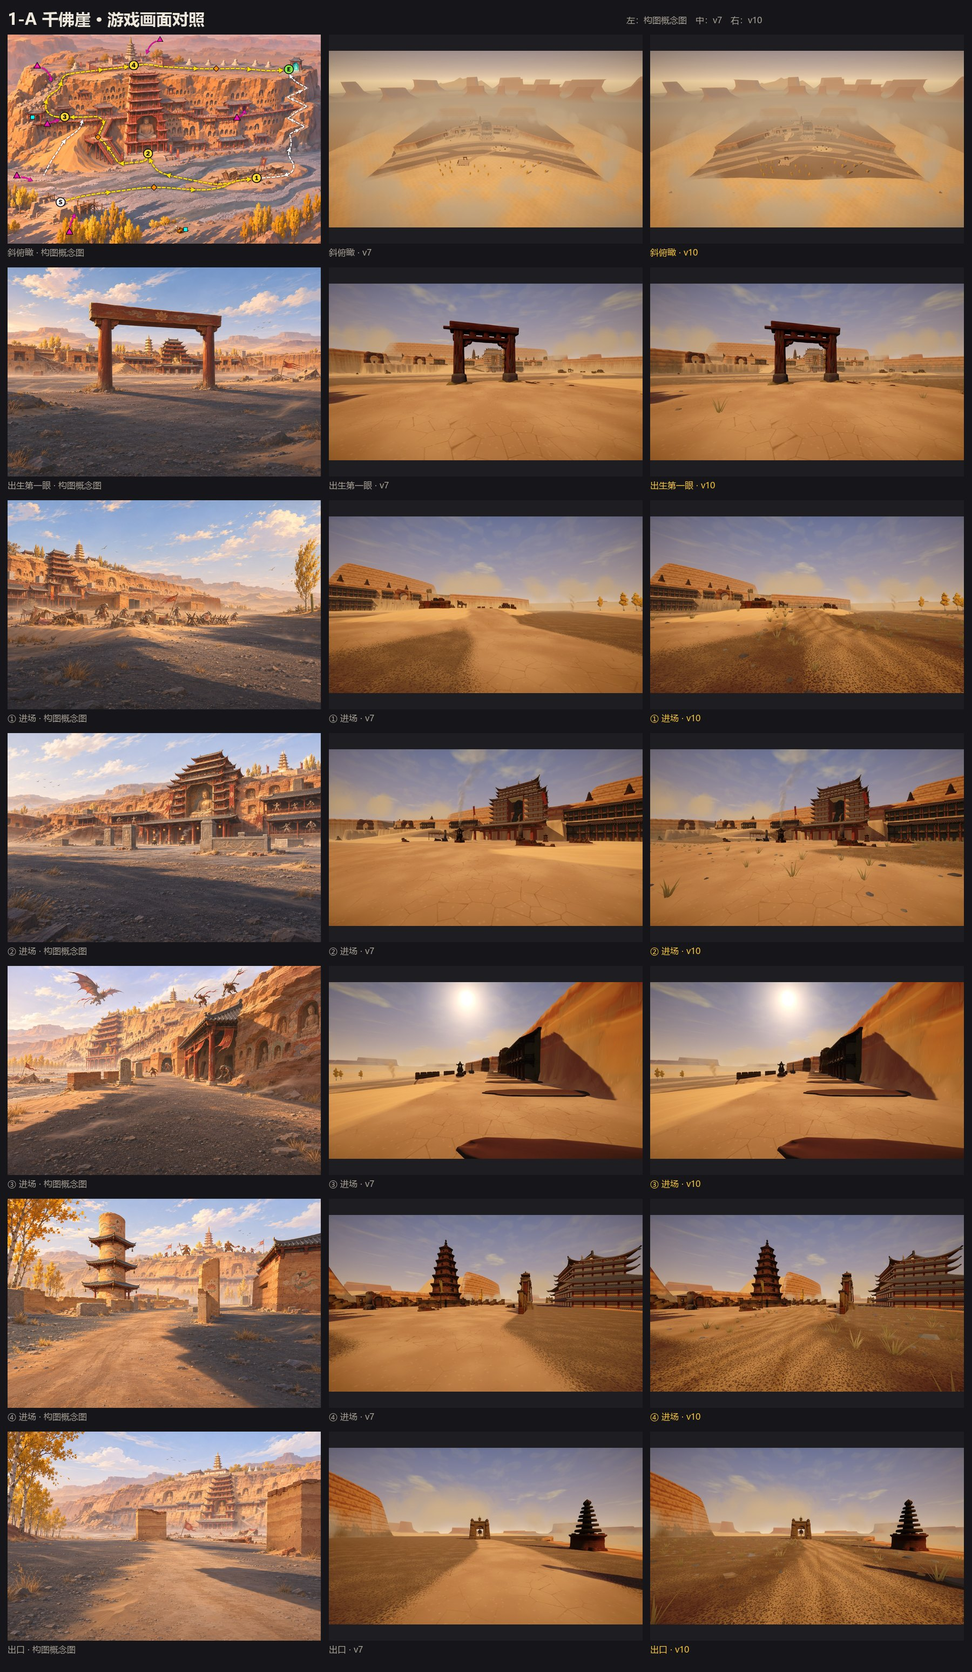
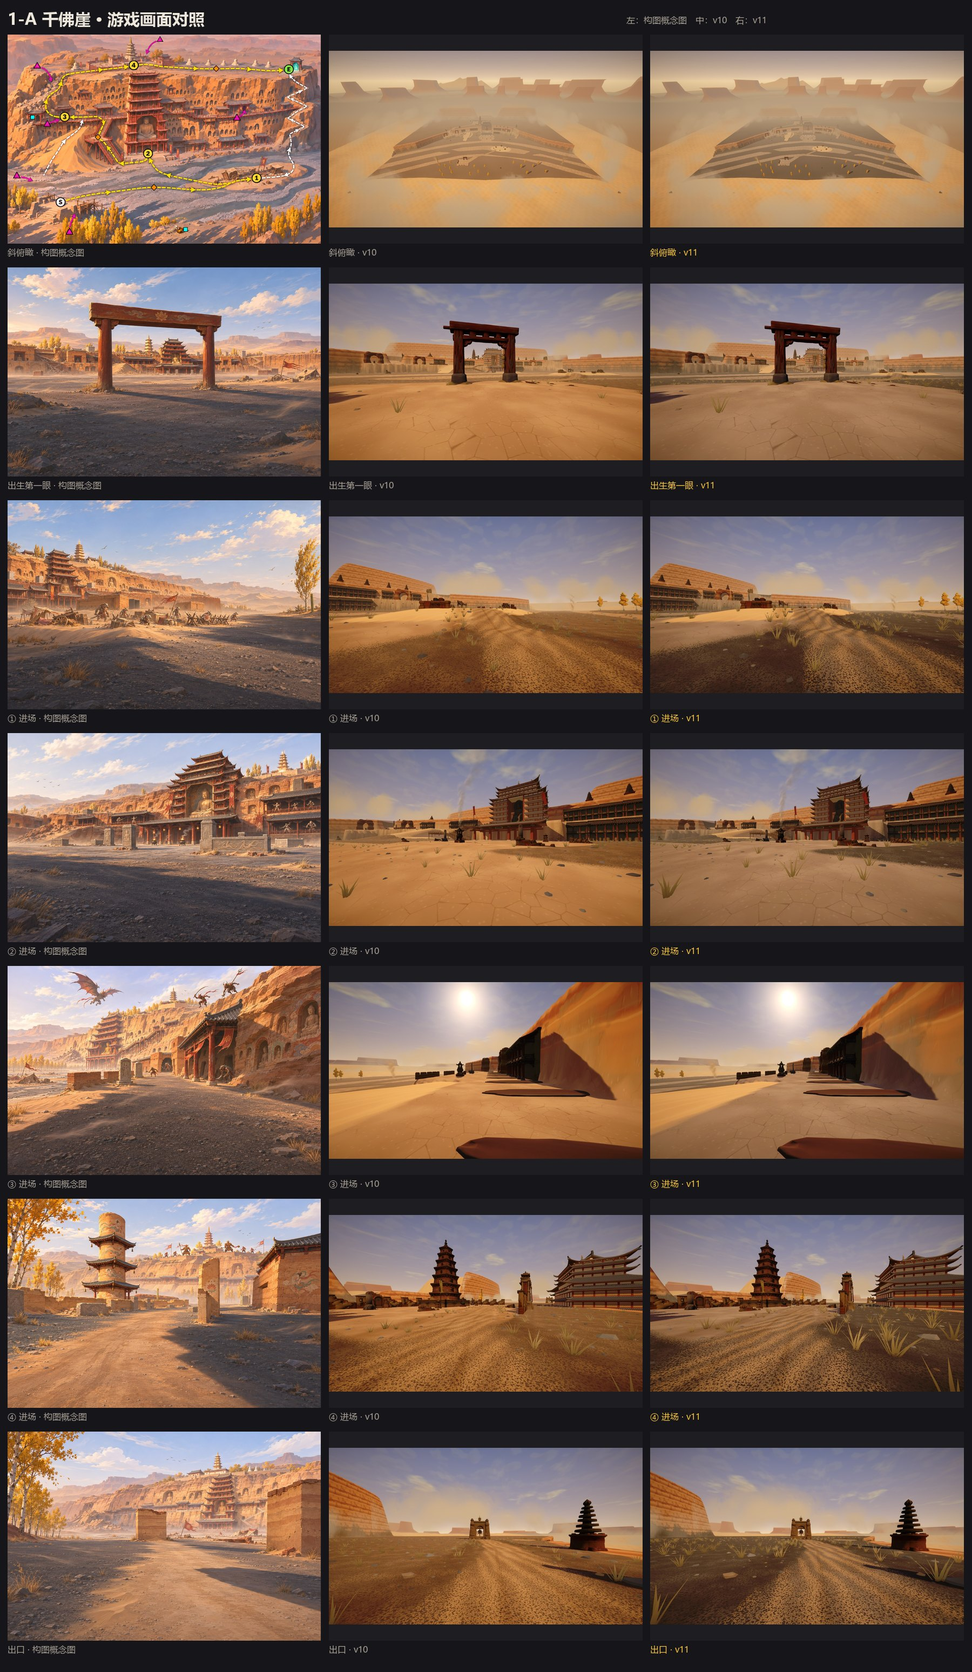
feat(desert): 第一章逐图对概念图还原（一）——地面去饱和成灰褐、1-2 太阳改到东北不再全图逆光、各图蓝天积云、骆驼刺、沙暴墙加浓
- 地形四层贴图载入时按层调饱和度 / 明度（砾石、土路去饱和压暗，沙保留暖黄），暗部色调改暖、铺地阴影不再发紫灰
- 1-1：日光收橙、营地沙洼底改砾石、路边骆驼刺（现成件实例化）、沙暴墙更高更褐、一团团积云
- 1-2：太阳从 112° 改到 55° / 42°（概念图里塔和岩壁是受光的），天顶改蓝、浮尘只压地平线，平地改回暖沙
- 1-4：白杨改金叶、蓝天积云、碗底改回沙土
- 草丛加高；散布支持灌丛件

diff --git a/src/world/desert/redo/maps.ts b/src/world/desert/redo/maps.ts
@@ -71,7 +71,8 @@ export const REDO_MAPS: Record<string, RedoMapConfig> = {
     // 破晓后一小时，迎着朝阳向东赶路：长影朝玩家倒过来，烽燧逆光成剪影，天在太阳那一侧最亮、发金，东边天际压着沙暴
     look: {
       light: {
-        sun: { color: [1, 0.8, 0.56], intensity: 1.6, shadowStrength: 0.9 },
+        // 日光收一点橙（概念图里天和太阳是金的，地面还是灰褐）
+        sun: { color: [1, 0.83, 0.62], intensity: 1.6, shadowStrength: 0.9 },
         // 高保真对照概念图「出生第一眼」（2026-11-27）：逆光的门框、营地在概念图里还看得出朱红和木色——背光面的环境光抬高；
         // 天顶是干净的蓝、地平线发金、低空一团团暖白的积云；空气比之前通透
         ambient: { sky: [0.5, 0.6, 0.8], equator: [0.72, 0.58, 0.44], ground: [0.42, 0.31, 0.22], intensity: 1.15 },
@@ -79,7 +80,8 @@ export const REDO_MAPS: Record<string, RedoMapConfig> = {
         sky: { top: [0.3, 0.57, 0.84], horizon: [0.98, 0.8, 0.58], bottom: [0.62, 0.48, 0.34], sun: [1, 0.86, 0.6], sharpness: 2.4, horizonGlow: 0.75, sunSize: 0.0012, sunHalo: 0.5, exposure: 1.18 },
       },
       atmosphere: { mistDensity: 0.0024, mistScaleHeight: 16, sunScatter: 0.55, airSkyBlend: 0.4, cloudShadow: 0.5 },
-      clouds: { low: 0.32, mid: 0.3, high: 0.45, sunGlow: 0 },
+      // 概念图里是一团团暖白的积云（不是细丝）
+      clouds: { low: 0.6, mid: 0.25, high: 0.4, height: 380, sunGlow: 0 },
       shafts: { strength: 0.32 },
       rimBack: 1.3,
       // 远景：近排低沙丘，二排台地（太阳底下钉一座逆光方山），三排更高更淡的台地；东边天际压一道沙暴纱幕
@@ -93,7 +95,7 @@ export const REDO_MAPS: Record<string, RedoMapConfig> = {
       },
       // 暗部抬一点、偏暖：逆光的门框 / 车 / 烽燧在概念图里是看得出颜色的暖褐，不是死黑的剪影
       grade: {
-        ColorAdjustments: { postExposure: -0.55, saturation: 10, contrast: 26 }, WhiteBalance: { temperature: 8, tint: -5 },
+        ColorAdjustments: { postExposure: -0.55, saturation: 8, contrast: 26 }, WhiteBalance: { temperature: 4, tint: -2 },
         ShadowsMidtonesHighlights: { active: true, shadows: [1.08, 1, 0.94, 0.14], midtones: [1, 1, 1, 0], highlights: [1, 1, 1, 0], shadowsStart: 0, shadowsEnd: 0.32, highlightsStart: 0.55, highlightsEnd: 1 },
       },
     },
@@ -106,10 +108,11 @@ export const REDO_MAPS: Record<string, RedoMapConfig> = {
         sun: { color: [1, 0.86, 0.66], intensity: 1.7, shadowStrength: 0.8 },
         ambient: { sky: [0.52, 0.58, 0.74], equator: [0.68, 0.56, 0.44], ground: [0.4, 0.3, 0.22], intensity: 0.82 },
         fog: { color: [0.88, 0.72, 0.54], start: 50, end: 320 },
-        sky: { top: [0.55, 0.62, 0.72], horizon: [0.95, 0.8, 0.62], bottom: [0.64, 0.5, 0.36], sun: [1, 0.9, 0.7], sharpness: 1.6, horizonGlow: 0.9, sunSize: 0.0012, sunHalo: 0.7, exposure: 1.2 },
+        // 照概念图：天顶是蓝的、低空一层暖白的云，浮尘只压在地平线上（原来整片灰白眩光）
+        sky: { top: [0.38, 0.56, 0.8], horizon: [0.95, 0.8, 0.62], bottom: [0.64, 0.5, 0.36], sun: [1, 0.9, 0.7], sharpness: 2, horizonGlow: 0.85, sunSize: 0.0012, sunHalo: 0.6, exposure: 1.18 },
       },
-      atmosphere: { mistDensity: 0.0045, mistScaleHeight: 24, sunScatter: 0.75, airDensity: 0.0008, airSkyBlend: 0.3 },
-      clouds: { low: 0.08, mid: 0.2, high: 0.4, sunGlow: 0 },
+      atmosphere: { mistDensity: 0.003, mistScaleHeight: 22, sunScatter: 0.6, airDensity: 0.0006, airSkyBlend: 0.3 },
+      clouds: { low: 0.5, mid: 0.25, high: 0.4, height: 420, sunGlow: 0 },
       shafts: { strength: 0.38 },
       rimBack: 1.2,
       // 远景：近排雅丹舰群，二排雅丹 + 台地，三排台地；太阳那一侧（右前方）压一层浮尘
@@ -149,7 +152,8 @@ export const REDO_MAPS: Record<string, RedoMapConfig> = {
     },
   },
   '1-4': {
-    margin: { rise: 10, dunes: 10 }, poplar: 'green',
+    // 白杨是偏黄的秋叶（概念图）
+    margin: { rise: 10, dunes: 10 }, poplar: 'gold',
     // 烈日下的露天沙洼：四面刀刃脊的沙山一面亮一面暗，月牙泉是全画面唯一的冷色，影子就是掩体
     look: {
       light: {
@@ -159,11 +163,13 @@ export const REDO_MAPS: Record<string, RedoMapConfig> = {
         sky: { top: [0.42, 0.6, 0.84], horizon: [0.97, 0.92, 0.84], bottom: [0.72, 0.6, 0.46], sun: [1, 0.98, 0.9], sharpness: 3.2, horizonGlow: 0.55, sunSize: 0.0012, sunHalo: 0.5, exposure: 1.18 },
       },
       atmosphere: { mistDensity: 0.002, mistScaleHeight: 26, sunScatter: 0.25, airSkyBlend: 0.5 },
-      clouds: { low: 0.1, mid: 0.15, high: 0.35, sunGlow: 0 },
+      // 概念图：蓝天上几团白积云
+      clouds: { low: 0.55, mid: 0.2, high: 0.35, height: 420, sunGlow: 0 },
       shafts: false,
       rimBack: 0.3,
       // 沙山一面亮一面暗：背阳坡压深、偏冷（太阳也从 46° 压到 34°，和旱魃一阶段推到的 30° 接得上）
-      terrainShadow: [0.56, 0.54, 0.82, 1],
+      // 背阳坡压深但不发紫（长廊铺地在阴影里一度显成紫灰）
+      terrainShadow: [0.62, 0.58, 0.64, 1],
       // 远景：沙山外面一层层更远、更高的沙海（鸣沙山的大沙山相对高 100–250 m），最远一排台地。
       // 构成复核（2026-11-26）：50–180 m 时全被 30–44 m 的近环挡住，出生台上只看得见一道碗沿；现在从出生台望出去，远沙山一层层高出近环 1–5°
       far: {

diff --git a/src/world/desert/groundScatter.ts b/src/world/desert/groundScatter.ts
@@ -31,6 +31,8 @@ export interface GroundScatterOptions {
   grass?: Partial<Record<string, number>>;
   /** 碎石密度（块 / m²） */
   pebbles?: Partial<Record<string, number>>;
+  /** 灌丛（骆驼刺、红柳）：现成的件按密度实例化（public/assets/props/<asset>.glb），路肩上加 shoulder 的密度 */
+  shrubs?: { asset: string; density: Partial<Record<string, number>>; shoulder?: number; scale?: [number, number] }[];
   /** 路肩：路边多宽算路肩（m），路肩上额外加的草 / 石密度 */
   shoulder?: { width: number; grass: number; pebbles: number };
   /** 这些圆里密度减半（据点场地中心：交战区不要满地碎东西） */
@@ -241,7 +243,7 @@ export class GroundScatter implements DesertPart {
           const c: Rgb = [root[0] + (tip[0] - root[0]) * t * 0.3, root[1] + (tip[1] - root[1]) * t * 0.3, root[2] + (tip[2] - root[2]) * t * 0.3];
           // 实例色 = 梢色的 0.85–1.1（几何里已经带了根暗梢亮）
           const k = 0.85 + r() * 0.25;
-          tileOf(px, pz).grass.push({ x: px, y: y - 0.03, z: pz, s: 0.75 + r() * 0.7, yaw: r() * Math.PI * 2, tilt: 0, c: [tip[0] * k * 0.92 + c[0] * 0.08, tip[1] * k * 0.92 + c[1] * 0.08, tip[2] * k * 0.92 + c[2] * 0.08] });
+          tileOf(px, pz).grass.push({ x: px, y: y - 0.03, z: pz, s: 0.95 + r() * 0.95, yaw: r() * Math.PI * 2, tilt: 0, c: [tip[0] * k * 0.92 + c[0] * 0.08, tip[1] * k * 0.92 + c[1] * 0.08, tip[2] * k * 0.92 + c[2] * 0.08] });
         } else {
           const big = r() < 0.04;
           const s = big ? 0.24 + r() * 0.16 : 0.06 + r() * r() * 0.18;
@@ -284,6 +286,68 @@ export class GroundScatter implements DesertPart {
     }
 
     if (o.ruts !== false && o.roads.length) this.buildRuts(surface, o);
+    // 灌丛：位置现在就定（同一个随机序列），件异步载入后挂上
+    for (const shrub of o.shrubs ?? []) {
+      const list: Inst[] = [];
+      const [s0, s1] = shrub.scale ?? [0.8, 1.3];
+      for (let z = z0; z < z1; z += 4) for (let x = x0; x < x1; x += 4) {
+        const px = x + r() * 4, pz = z + r() * 4;
+        const kind = surface.kind(px, pz);
+        if (!kind) continue;
+        const road = o.roads.length ? roadDistance(px, pz, o.roads) : Infinity;
+        // 路面上不长，路肩上加密
+        if (road < -0.5) continue;
+        const p = ((shrub.density[kind] ?? 0) + (road < shoulder.width + 1.5 ? shrub.shoulder ?? 0 : 0)) * 16 * thin * calmAt(px, pz);
+        if (p <= 0 || r() > p) continue;
+        const y = surface.height(px, pz);
+        if (!Number.isFinite(y) || !slopeOk(px, pz, y)) continue;
+        list.push({ x: px, y: y - 0.05, z: pz, s: s0 + r() * (s1 - s0), yaw: r() * Math.PI * 2, tilt: 0, c: [1, 1, 1] });
+      }
+      if (list.length) void this.loadShrub(shrub.asset, list);
+    }
+  }
+
+  /** 现成的灌丛件 → 实例化网格（材质补环境光、离镜头 80–110 m 缩没）；整件只一组实例，草 / 石那样分块不值得（几百棵） */
+  private async loadShrub(asset: string, list: { x: number; y: number; z: number; s: number; yaw: number }[]): Promise<void> {
+    const { GLTFLoader } = await import('three/examples/jsm/loaders/GLTFLoader.js');
+    let gltf;
+    try {
+      gltf = await new GLTFLoader().loadAsync(`${import.meta.env.BASE_URL}assets/props/${asset}.glb`);
+    } catch (e) {
+      console.warn(`[groundScatter] ${asset} 载入失败`, e);
+      return;
+    }
+    if (this.disposed) return;
+    gltf.scene.updateMatrixWorld(true);
+    const m4 = new THREE.Matrix4(), q = new THREE.Quaternion(), v = new THREE.Vector3(), sc = new THREE.Vector3(), up = new THREE.Vector3(0, 1, 0);
+    gltf.scene.traverse(obj => {
+      const mesh = obj as THREE.Mesh;
+      if (!mesh.isMesh || /_LOD[1-9]$/.test(mesh.name)) return;
+      const src = (Array.isArray(mesh.material) ? mesh.material[0] : mesh.material) as THREE.MeshStandardMaterial;
+      const mat = src.clone();
+      // 背光面补环境光：自发光 = 贴图色 × 0.42
+      mat.emissive = new THREE.Color(AMBIENT, AMBIENT, AMBIENT);
+      mat.emissiveMap = src.map;
+      mat.onBeforeCompile = shader => {
+        shader.vertexShader = shader.vertexShader.replace('#include <begin_vertex>', `#include <begin_vertex>
+{
+  vec3 wo = (modelMatrix * instanceMatrix * vec4(0.0, 0.0, 0.0, 1.0)).xyz;
+  transformed *= 1.0 - smoothstep(80.0, 110.0, distance(cameraPosition.xz, wo.xz));
+}`);
+      };
+      const inst = new THREE.InstancedMesh(mesh.geometry, mat, list.length);
+      const local = mesh.matrixWorld;
+      list.forEach((it, i) => {
+        m4.compose(v.set(it.x, it.y, it.z), q.setFromAxisAngle(up, it.yaw), sc.set(it.s, it.s, it.s)).multiply(local);
+        inst.setMatrixAt(i, m4);
+      });
+      inst.instanceMatrix.needsUpdate = true;
+      inst.computeBoundingSphere();
+      inst.name = `DesertGroundScatter.${asset}`;
+      inst.receiveShadow = true;
+      this.group.add(inst);
+      this.owned.push({ dispose: () => { inst.dispose(); mat.dispose(); } });
+    });
   }
 
   /** 每条路一条贴地带：1.5 m 一节，横向 13 个点（路面 + 两边路肩），乘法混合 */
@@ -345,7 +409,10 @@ export class GroundScatter implements DesertPart {
     this.uniforms.uTime.value = t;
   }
 
+  private disposed = false;
+
   dispose(): void {
+    this.disposed = true;
     this.group.removeFromParent();
     for (const d of this.owned) d.dispose();
   }

diff --git a/src/world/desert/redo/runtime.ts b/src/world/desert/redo/runtime.ts
@@ -25,6 +25,38 @@ import { patchDesertDocument } from '../document';
  */
 
 /** 地形四层贴图（起伏沙 / 黑戈壁砾石 / 龟裂土 / 赭红岩层，从旧沙漠地形搬到第一章自己的目录）和每张盖多少米 */
+/**
+ * 地形四层贴图的调色（饱和度倍率、明度倍率）：照构图概念图——能走的砾石地、土路是去了饱和的灰褐，
+ * 只有沙丘的沙保留暖黄（原贴图整片又橙又艳，2026-11-27 逐图还原时压的）
+ */
+const LAYER_TONE: [number, number][] = [[0.95, 0.97], [0.25, 0.78], [0.5, 0.9], [0.85, 1]];
+
+/** 贴图在 canvas 上按亮度往灰里收（sat）、整体压暗（val），出一张新贴图（原图是缓存里共用的，不改它） */
+function toneTexture(src: THREE.Texture, sat: number, val: number): THREE.Texture {
+  const img = src.image as (CanvasImageSource & { width: number; height: number }) | undefined;
+  if (!img?.width || typeof document === 'undefined' || (sat === 1 && val === 1)) return src;
+  const cv = document.createElement('canvas');
+  cv.width = img.width;
+  cv.height = img.height;
+  const g = cv.getContext('2d', { willReadFrequently: true });
+  if (!g) return src;
+  g.drawImage(img, 0, 0);
+  const d = g.getImageData(0, 0, cv.width, cv.height), p = d.data;
+  for (let i = 0; i < p.length; i += 4) {
+    const l = 0.299 * p[i] + 0.587 * p[i + 1] + 0.114 * p[i + 2];
+    for (let c = 0; c < 3; c++) p[i + c] = Math.max(0, Math.min(255, (l + (p[i + c] - l) * sat) * val));
+  }
+  g.putImageData(d, 0, 0);
+  const t = new THREE.CanvasTexture(cv);
+  t.colorSpace = src.colorSpace;
+  t.wrapS = src.wrapS;
+  t.wrapT = src.wrapT;
+  t.flipY = src.flipY;
+  t.anisotropy = src.anisotropy;
+  t.needsUpdate = true;
+  return t;
+}
+
 const LAYERS = [
   { url: 'assets/desert/terrain/sand.webp', tile: 9 },
   // 砾石：4 m 一铺时砾石斑有拳头到脸盆大，近景成一片豹纹斑（抢视线）；2.6 m 一铺缩成碎石粒
@@ -205,11 +237,13 @@ async function terrainPart(doc: UnitySceneDocument, c: CompiledMap, group: THREE
   control.minFilter = THREE.LinearFilter;
   control.colorSpace = THREE.NoColorSpace;
   control.needsUpdate = true;
-  const layers = await Promise.all(LAYERS.map(l => UnityLevelLibrary.loadTexture(l.url, true)));
+  const raw = await Promise.all(LAYERS.map(l => UnityLevelLibrary.loadTexture(l.url, true)));
+  const layers = raw.map((t, k) => toneTexture(t, ...LAYER_TONE[k]));
   for (const layer of layers) { layer.anisotropy = 8; layer.needsUpdate = true; }
   // 着色器按 vMapUv 采样分层图：材质要挂一张 map 才有这个 varying
   const material = new THREE.MeshStandardMaterial({ map: control });
-  const style = terrainStyle(doc.id), shadow = REDO_MAPS[doc.id]?.look?.terrainShadow;
+  // 暗部色调缺省比沙漠章原来的 [0.7, 0.64, 0.82] 暖一档：铺地在阴影里不发紫灰
+  const style = terrainStyle(doc.id), shadow = REDO_MAPS[doc.id]?.look?.terrainShadow ?? ([0.7, 0.65, 0.72, 1] as [number, number, number, number]);
   stylizeTerrain(material, { control, layers, tiles: LAYERS.map(l => l.tile) }, shadow ? { ...style, shadowTint: shadow } : style, doc.environment);
   setStylizedEnvironment(doc.environment);
   const source = new THREE.Group();
@@ -271,7 +305,7 @@ function mergeGrade(base: VolumeOverrides | undefined, over: VolumeOverrides | u
  */
 async function farGroundPart(doc: UnitySceneDocument, c: CompiledMap, group: THREE.Group): Promise<DesertPart> {
   const size = 7000;
-  const sand = (await UnityLevelLibrary.loadTexture(LAYERS[0].url, true)).clone();
+  const sand = toneTexture(await UnityLevelLibrary.loadTexture(LAYERS[0].url, true), ...LAYER_TONE[0]).clone();
   sand.wrapS = sand.wrapT = THREE.RepeatWrapping;
   sand.repeat.set(size / LAYERS[0].tile, size / LAYERS[0].tile);
   sand.needsUpdate = true;

diff --git a/src/world/desert/redo/fxMaps.ts b/src/world/desert/redo/fxMaps.ts
@@ -18,9 +18,11 @@ export const REDO_FX: Record<string, RedoFx> = {
   '1-1': {
     // 地面散布（照概念图近景）：砾石滩上一丛丛枯草和碎石、古道两道车辙 + 压暗的砾石路肩
     ground: {
-      grass: { gravel: 0.07, sand: 0.025, mud: 0.05, dune: 0.008, earth: 0.02 },
+      grass: { gravel: 0.06, sand: 0.02, mud: 0.05, dune: 0.006, earth: 0.02 },
       pebbles: { gravel: 0.32, sand: 0.05, mud: 0.14, earth: 0.08, road: 0.03 },
-      shoulder: { width: 3, grass: 0.22, pebbles: 0.55 },
+      shoulder: { width: 3, grass: 0.18, pebbles: 0.55 },
+      // 戈壁上一簇簇骆驼刺，路边多一些（概念图「出生第一眼」「① 进场」近景）
+      shrubs: [{ asset: 'SM_Tripo_DesertCamelthorn', density: { gravel: 0.004, sand: 0.002, mud: 0.003 }, shoulder: 0.012, scale: [0.7, 1.25] }],
     },
     // 北边沙丘带、东边两段沙丘：脊上的沙朝西南吹进盆地
     ridges: { reach: 1.4, opacity: 0.8 },
@@ -31,7 +33,7 @@ export const REDO_FX: Record<string, RedoFx> = {
       { origin: [327, 2.6, 180], height: 16, width: 0.9, opacity: 0.55, rise: 1.4, count: 24 },
     ],
     // 东边天际压着的沙暴墙（概念图「出生第一眼」右侧天边那一道褐黄尘墙；④ 营地的周期沙暴就从那边来）
-    storm: { azimuth: [30, 76], distance: 750, height: 90 },
+    storm: { azimuth: [28, 80], distance: 720, height: 115, lit: [0.8, 0.57, 0.38], shade: [0.44, 0.31, 0.22], haze: 0.22, opacity: 1 },
     // 狼烟是黑烟（烧狼粪 / 湿柴）：浅灰的烟逆着发亮的晨天整个化掉，压成深褐灰才立得住
     smokeOptions: { low: [0.3, 0.26, 0.23], high: [0.56, 0.52, 0.49] },
     // 尘卷风：南边戈壁、东北角，远远地游
@@ -53,8 +55,8 @@ export const REDO_FX: Record<string, RedoFx> = {
   '1-2': {
     // 地面散布（照概念图近景）：砾石滩上一丛丛枯草和碎石、古道两道车辙 + 压暗的砾石路肩
     ground: {
-      grass: { gravel: 0.06, sand: 0.02, mud: 0.04, road: 0.004 },
-      pebbles: { gravel: 0.3, sand: 0.04, mud: 0.12, earth: 0.06, road: 0.04 },
+      grass: { gravel: 0.06, sand: 0.025, mud: 0.04, road: 0.006 },
+      pebbles: { gravel: 0.3, sand: 0.1, mud: 0.12, earth: 0.06, road: 0.06 },
       shoulder: { width: 2.5, grass: 0.15, pebbles: 0.4 },
     },
     ridges: false,
@@ -72,8 +74,8 @@ export const REDO_FX: Record<string, RedoFx> = {
   '1-3': {
     // 地面散布（照概念图近景）：砾石滩上一丛丛枯草和碎石、古道两道车辙 + 压暗的砾石路肩
     ground: {
-      grass: { sand: 0.01, gravel: 0.035, earth: 0.01 },
-      pebbles: { sand: 0.03, gravel: 0.24, earth: 0.06, road: 0.05, mud: 0.06 },
+      grass: { sand: 0.022, dune: 0.008, gravel: 0.035, earth: 0.01, stone: 0.012 },
+      pebbles: { sand: 0.03, gravel: 0.24, earth: 0.06, road: 0.05, mud: 0.06, stone: 0.08 },
       shoulder: { width: 1.8, grass: 0.06, pebbles: 0.3 },
     },
     // 城外的远丘（脊高 8–13 m）也吹；出生丘顶一带不吹（第一眼要看清城）

diff --git a/src/world/desert/whitebox/maps/1-2.ts b/src/world/desert/whitebox/maps/1-2.ts
@@ -81,11 +81,12 @@ export const WB_1_2: WhiteboxSpec = {
   motif: '收紧',
   mood: '起风的上午，太阳在前进方向右前方：扬沙贴着河道往前流、逆光发亮，岩墙一面暖橙一面冷紫，塔尖和岩拱是沙雾里的剪影。',
   size: [400, 300],
-  sun: { azimuth: 112, elevation: 33 },
+  // 太阳在东北、偏高（2026-11-27 照构图概念图：出生第一眼太阳在左上、③ 白塔从左前方受光；原来 112° 正对着机位，全图逆光成剪影）
+  sun: { azimuth: 55, elevation: 42 },
   wind: [1, 0],
   terrain: [
-    // 平地是砾石 / 压实的土（照构图概念图的近景：灰褐砾石地 + 枯草碎石；亮黄的沙只在沙丘、沙台上，2026-11-27 地面散布那一步改）
-    { op: 'base', h: 0, mat: 'gravel' },
+    // 平地是暖沙（概念图 1-2 的地面比 1-1 浅、夹着沙），走的河道是砂砾土（路材质）
+    { op: 'base', h: 0, mat: 'sand' },
     { op: 'noise', amp: 0.7, scale: 42, seed: 12, keep: [{ at: [90, 160], r: 26 }, { at: [194, 88], r: 30 }, { at: [247, 180], r: 36 }, { at: [320, 144], r: 24 }, { at: [28, 159], r: 16 }, { at: [372, 142], r: 20 }] },
     // 古河床：三股辫状河道 + 一条辫流（刻下 0.4 m，颜色分得出走向）
     { op: 'channel', pts: [[40, 159], [88, 160], [130, 168], [170, 175], [212, 182]], half: 5, h: -0.4, bank: 6, mat: 'road' },

diff --git a/src/world/desert/whitebox/maps/1-1.ts b/src/world/desert/whitebox/maps/1-1.ts
@@ -47,7 +47,8 @@ export const WB_1_1: WhiteboxSpec = {
     // 台后的岩台地：在出生点 → 烽燧的视线延长线上、图的东沿（离烽燧 100 m），出生点望过去烽燧立在它前面；从 ③ 看它退在远处，不压台面
     { op: 'mound', at: [377, 101], r: [30, 16], h: 21, rot: 10, shape: 'mesa', flat: 0.76, mat: 'rock' },
     // ④ 驼队残骸营地：沙洼（−2.5 m），南、东有沙丘围着
-    { op: 'disc', at: [330, 215], r: 30, h: -2.5, edge: 16, mode: 'min', mat: 'sand' },
+    // 营地沙洼的底是砾石（概念图 ④：深色砾石地上的营地；亮黄的沙只在南边的沙丘上）
+    { op: 'disc', at: [330, 215], r: 30, h: -2.5, edge: 16, mode: 'min', mat: 'gravel' },
     { op: 'ridge', pts: [[286, 250], [316, 262], [350, 258], [374, 242]], h: [3, 6, 5, 3], stoss: 16, side: 1, mat: 'dune' },
     // 南戈壁的孤岩（商队遗货藏在背风面）
     { op: 'mound', at: [204, 246], r: [17, 8], h: 6, rot: WIND_ROT, shape: 'yardang', flat: 0.82, mat: 'rock', asset: 'SM_Tripo_DesertYardangSmall' },

diff --git a/src/world/desert/whitebox/maps/1-4.ts b/src/world/desert/whitebox/maps/1-4.ts
@@ -104,8 +104,8 @@ export const WB_1_4: WhiteboxSpec = {
   sun: { azimuth: 322, elevation: 34 },
   wind: WIND,
   terrain: [
-    // 平地是砾石 / 压实的土（照构图概念图的近景：灰褐砾石地 + 枯草碎石；亮黄的沙只在沙丘、沙台上，2026-11-27 地面散布那一步改）
-    { op: 'base', h: 0, mat: 'gravel' },
+    // 碗底是浅色沙土（概念图「出生第一眼」：泉边一圈土路，碗底不是深色砾石——改成砾石时从观景台看下去像一块柏油）
+    { op: 'base', h: 0, mat: 'sand' },
     { op: 'noise', amp: 0.4, scale: 45, seed: 14, keep: [{ at: [172, 172], r: 34 }, { at: ENTRY, r: 12 }] },
     // 环形沙山 · 北、西两面：落沙面朝里（slip 24 m → 47–56°，走不上去）；西北垭口（17 m）留给观景台
     { op: 'ridge', pts: [[104, 206], [84, 180], [72, 152], [72, 122], [80, 96], [90, 74], [112, 55], [140, 46], [172, 48], [200, 57], [224, 74], [240, 100]],

diff --git a/src/world/desert/redo/fx.ts b/src/world/desert/redo/fx.ts
@@ -53,7 +53,7 @@ export interface RedoFx {
   /** 天边的沙暴墙（圆心 = 图中心，墙脚 = 远景地面高度，受光朝白盒的太阳） */
   storm?: Omit<StormWallOptions, 'center' | 'baseY' | 'sunAzimuth'>;
   /** 地面散布（groundScatter.ts）：枯草、碎石按白盒地面材质的密度撒；路 = 白盒里路材质的涂抹 / 坡道，自动出车辙和砾石路肩 */
-  ground?: Pick<GroundScatterOptions, 'grass' | 'pebbles' | 'shoulder' | 'grassColor' | 'pebbleColors' | 'ruts' | 'rutTint'>;
+  ground?: Pick<GroundScatterOptions, 'grass' | 'pebbles' | 'shrubs' | 'shoulder' | 'grassColor' | 'pebbleColors' | 'ruts' | 'rutTint'>;
 }
 
 /** 白盒里的路：mat = road 的涂抹带（折线 + 半宽）和坡道 */
